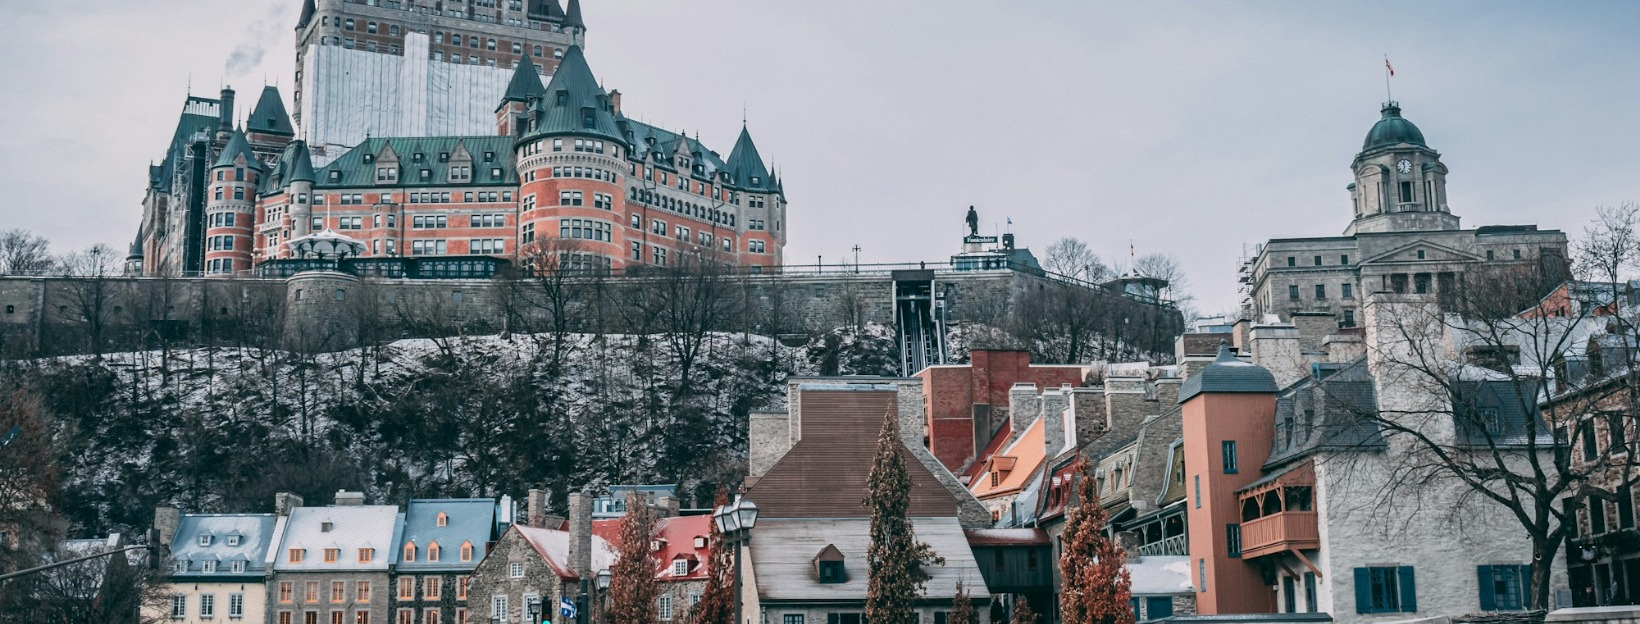
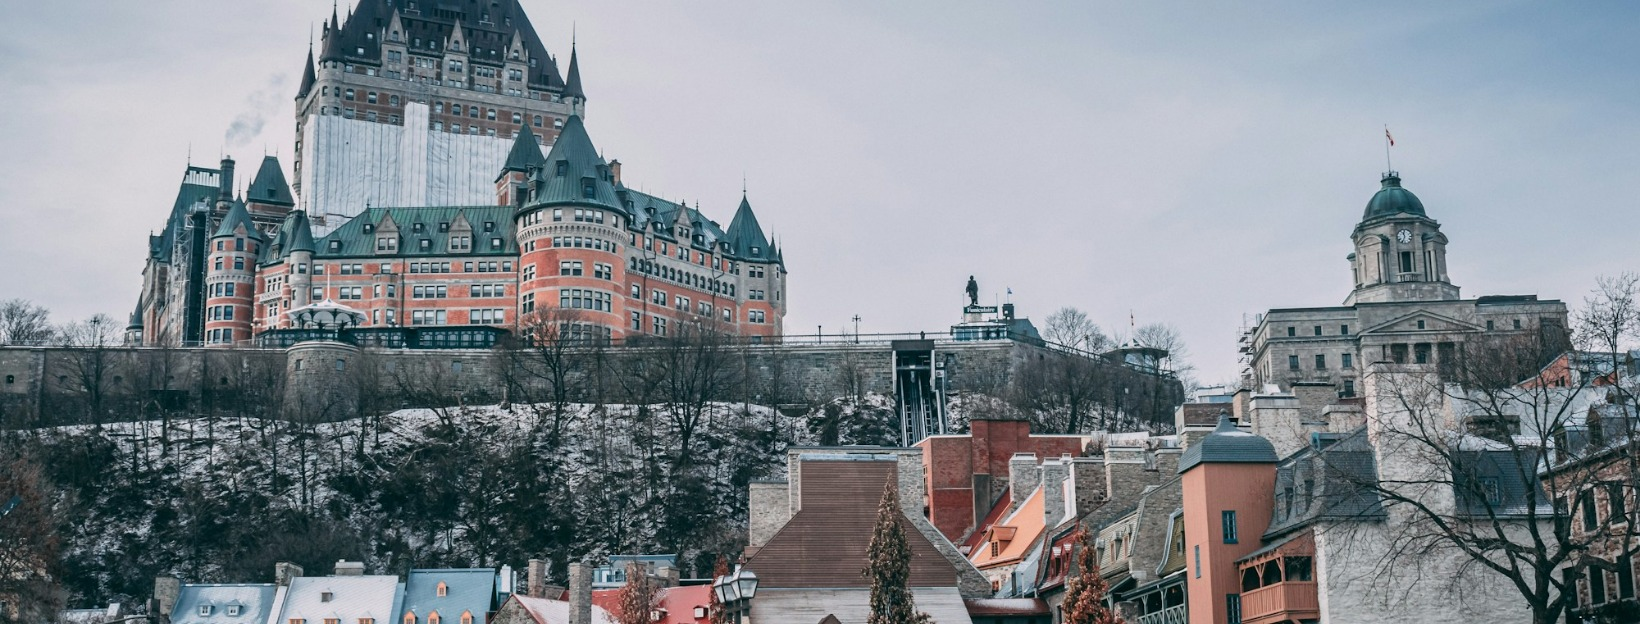
Bannières : zones des photos de profil respectées + aperçus
Claude-Session: https://claude.ai/code/session_01NBGakcBRwoq7RKRswmKrSM

diff --git a/tools/visuels/bannieres/txt-fb.html b/tools/visuels/bannieres/txt-fb.html
@@ -4,4 +4,4 @@ body{margin:0}.s{width:var(--w);height:var(--h);background:#29245c;color:#fff;di
 h1{font-weight:700;letter-spacing:-.02em;line-height:1.1}
 .l{color:#cfcbef}
 .dot{position:absolute;border-radius:50%;background:#ea346f}
-:root{--w:1640px;--h:624px}.k{font-size:24px}h1{font-size:64px;margin-top:22px}.l{font-size:26px;margin-top:22px}.d1{width:260px;height:260px;left:-90px;top:-110px}.d2{width:180px;height:180px;right:-60px;bottom:-70px}</style></head><body><div class="s"><div class="dot d1"></div><div class="dot d2"></div><span class="k">Montréal · Lille</span><h1>Travailler au Québec,<br>recruter en Europe francophone</h1><p class="l">Recrutement international · Permis de travail · Intégration</p></div></body></html>
+:root{--w:1640px;--h:624px}.k{font-size:24px}h1{font-size:64px;margin-top:22px}.l{font-size:26px;margin-top:22px}.d1{width:260px;height:260px;left:-90px;top:-110px}.d2{width:180px;height:180px;right:-60px;bottom:-70px}.s{padding-bottom:150px;box-sizing:border-box}</style></head><body><div class="s"><div class="dot d1"></div><div class="dot d2"></div><span class="k">Montréal · Lille</span><h1>Travailler au Québec,<br>recruter en Europe francophone</h1><p class="l">Recrutement international · Permis de travail · Intégration</p></div></body></html>

diff --git a/tools/visuels/bannieres/ph-fb.html b/tools/visuels/bannieres/ph-fb.html
@@ -1,1 +1,1 @@
-<html><body style="margin:0"><img src="photo-qc.jpg" style="width:1640px;height:624px;object-fit:cover;object-position:50% 55%;display:block"></body></html>
+<html><body style="margin:0"><img src="photo-qc.jpg" style="width:1640px;height:624px;object-fit:cover;object-position:50% 40%;display:block"></body></html>
